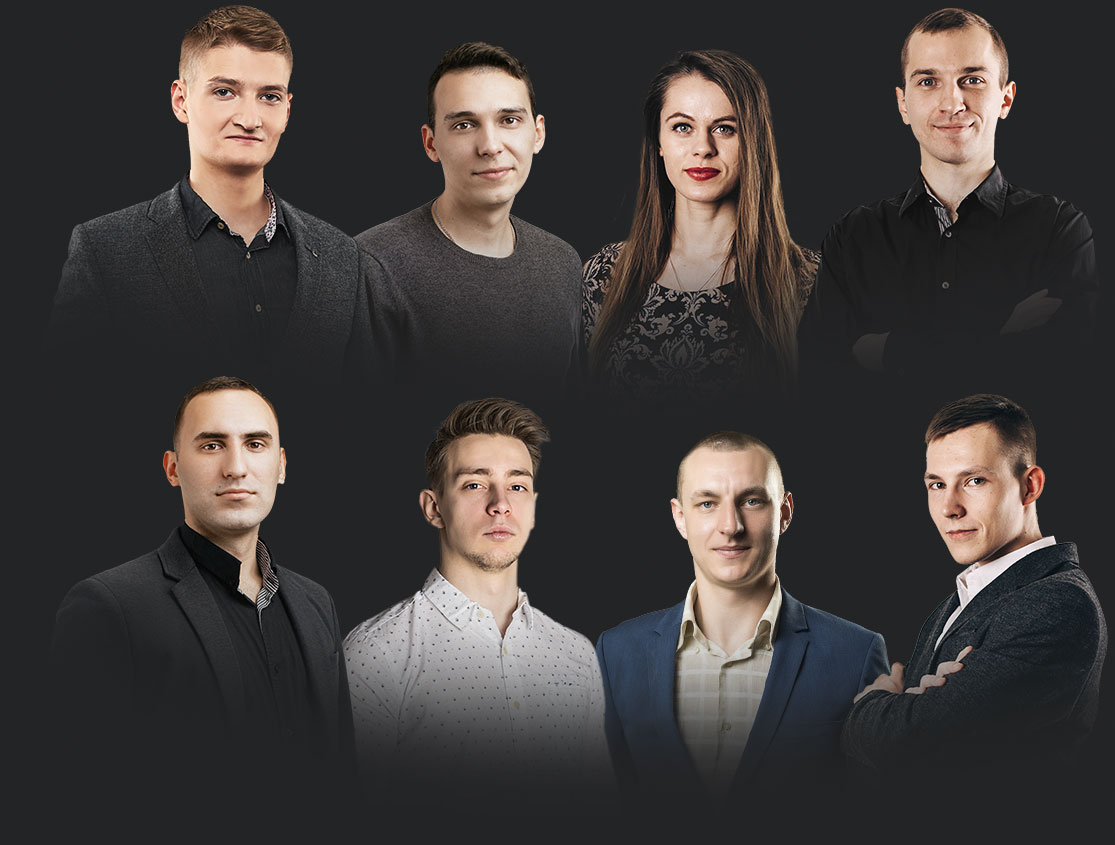
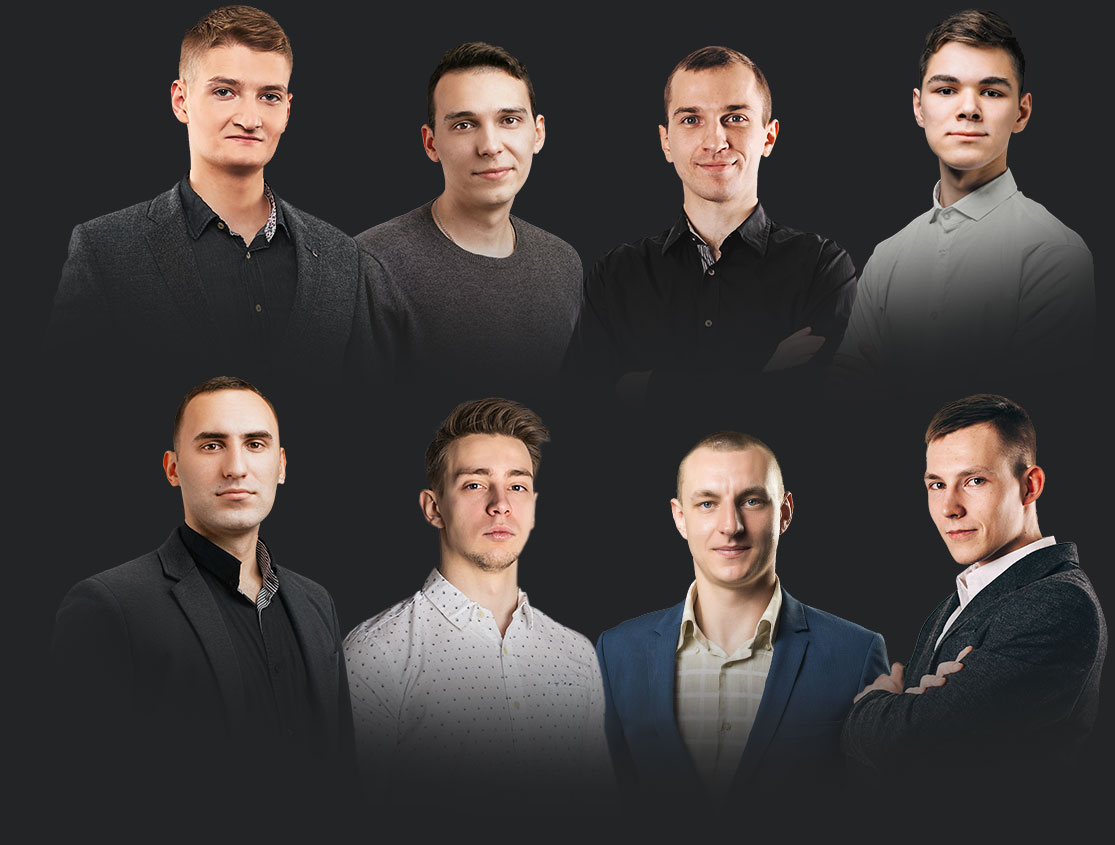
123

Changed region(s): [[0.5184, 0.0, 0.9758, 0.4308]]

diff --git a/index.html b/index.html
@@ -93,7 +93,7 @@
 									</div>
 								</div>
 							</div></b>
-							<span class="thin">Вся команда засучив рукава полгода будет работать над Вашим проектом.</span>
+							<span class="thin">Вся команда засучив рукава полгода будет работать над Вашим проектом.<br> Вы получаете:</span>
 						</h3>
 						<div class="b-indicators">
 							<div class="b-indicators__item fadeRight anim" data-cont=".b-indicators">
@@ -406,8 +406,8 @@
 						<small>Ассистент руководителя</small>
 					</div>
 					<div class="b-team-item" style="width: 22%;padding-top: 288px;">
-						<p><b>Ольга</b></p>
-						<small>Копирайтер</small>
+						<p><b>Даниил</b></p>
+						<small>Дизайнер</small>
 					</div>
 					<div class="b-team-item" style="padding-right: 41px;width: 26%;">
 						<p><b>Сергей</b></p>
@@ -1546,8 +1546,8 @@
 		<div class="b b-19">
 			<div class="b-block">
 				<p class="b-first-p">Нам интересно делать только wow-кейсы. Мы всей командой<br>буквально пашем ради этого. <strong>Поэтому берем только 9-10 проектов в год</strong></p>
-				<!-- <h3><b>В этом месяце мы можем взять 1 проект</b></h3> -->
-				<h3><b>В этом месяце у нас нет свободных мест</b></h3>
+				<h3><b>В этом месяце мы можем взять 1 проект</b></h3>
+				<!-- <h3><b>В этом месяце у нас нет свободных мест</b></h3> -->
 				<div class="b-three-items b-projects">
 					<div class="b-three-item anim fadeDown delay200">
 						<div class="b-img" style="background-image: url('i/19/photo-2.jpg');">
@@ -1842,15 +1842,14 @@
 						<img src="i/docs.jpg">
 					</div>
 					<div data-number="5" class="b-quiz-container b-quiz-5 b-quiz-offer" data-result="88" style="display: none">
-						<h3><b>И последний шаг!</b><br>Оставьте номер телефона</h3>
+						<h3><b>Остался последний шаг!</b></h3>
 						<div class="b-quiz-left-col">
-							<p>Нам нужно связаться с вами, чтобы уточнить пару<br>
-							моментов.</p>
+							<p>Оставьте ваши контакты и получите предварительный расчёт окупаемости в excel + пошаговую<br> «дорожную карту».</p>
 							<p>После этого сможем назвать три варианта<br>по составу инструментов, срокам и цене.</p>
-							<p>Просто введите телефон:</p>
+							<p>Телефон для консультации</p>
 							<div class="b-line-input clearfix">
 								<input type="text" name="phone" class="b-phone-input" placeholder="Введите номер телефона" required>
-								<a href="#" class="b-btn b-green-btn quiz-submit"><span>Получить предложение</span></a>
+								<a href="#" class="b-btn b-green-btn quiz-submit"><span>Получить результат!</span></a>
 							</div>
 							<input type="hidden" name="subject" value="Квиз «Получить предложение!»">
 							<input type="hidden" name="thanks" value="offer">
